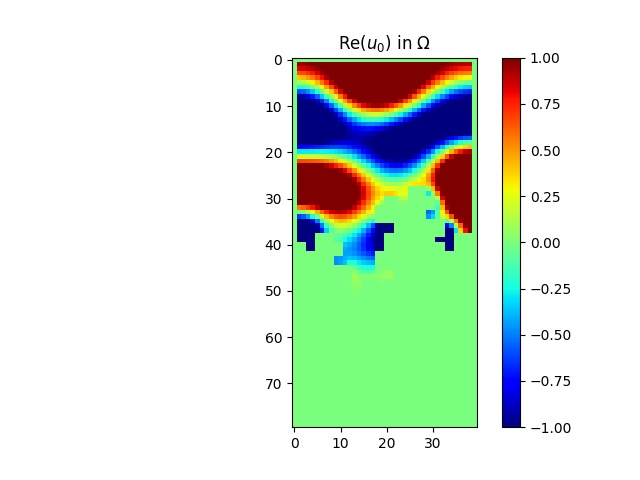
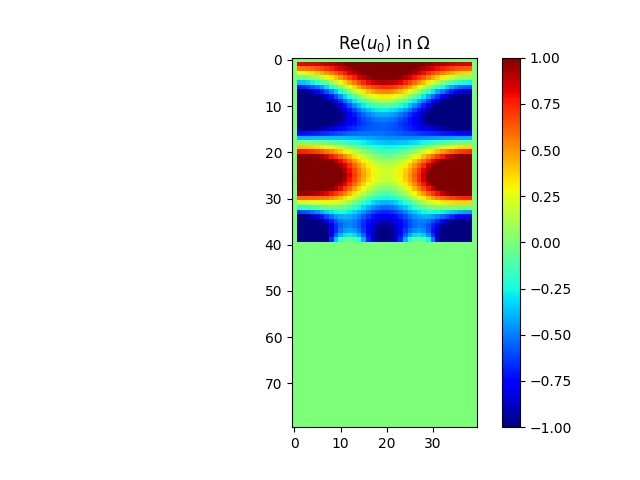
potards

Changed region(s): [[0.4375, 0.125, 0.75, 0.5938]]

diff --git a/demo_control_polycopie.py b/demo_control_polycopie.py
@@ -25,9 +25,8 @@ import alpha_compute
 def your_optimization_procedure(domain_omega, spacestep, wavenumber, f, f_dir, f_neu, f_rob,
                                 beta_pde, alpha_pde, alpha_dir, beta_neu, beta_rob, alpha_rob,
                                 Alpha, mu, chi, V_obj, mu1, V_0):
-    eps3 = 0.1
-    eps1 = 1
-    eps2 = 0.03
+    eps3 = 0.05
+    eps1 = 0.1
     eps0 = 0.0000001
     """This function return the optimized density.
 
@@ -85,7 +84,7 @@ def your_optimization_procedure(domain_omega, spacestep, wavenumber, f, f_dir, f
             # postprocessing._plot_perso_solution(chi_next, chi*0)
 
             # print('    b. computing projected gradient')
-
+            eps2=10
             int = integral(chi_next)
             while abs(int-V_obj) >= eps1:
                 if int > V_obj:
@@ -94,7 +93,9 @@ def your_optimization_procedure(domain_omega, spacestep, wavenumber, f, f_dir, f
                     l += eps2
                 chi_next = projector(chi-mu*Jp, l, domain_omega)
                 int = integral(chi_next)
-
+                print("l:",l)
+                eps2/=2
+            
             # print('    c. computing solution of Helmholtz problem, i.e., u')
             alpha_rob = Alpha * chi_next
             u = processing.solve_helmholtz(domain_omega, spacestep, wavenumber, f, f_dir, f_neu,
@@ -111,6 +112,7 @@ def your_optimization_procedure(domain_omega, spacestep, wavenumber, f, f_dir, f
 
             if ene < energy[k]:
                 # The step is increased if the energy decreased
+                break
                 mu = mu * (1 + eps3)
             else:
                 # The step is decreased is the energy increased
@@ -179,7 +181,7 @@ if __name__ == '__main__':
     # -- set parameters of the geometry
     N = 40  # number of points along x-axis
     M = 2 * N  # number of points along y-axis
-    level = 2 # level of the fractal : limited by N
+    level = 0 # level of the fractal : limited by N
     spacestep = 1.0 / N  # mesh size
 
     # -- set parameters of the partial differential equation
